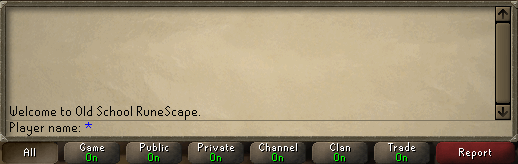
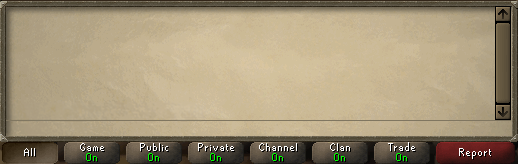
Added background to central screen + started working on typewriter effect

Changed region(s): [[0.0, 0.6402, 0.4015, 0.7317], [0.0, 0.7622, 0.1544, 0.8232], [0.1544, 0.7317, 0.1853, 0.7622]]

diff --git a/chat/central-chat-display/src/App.js b/chat/central-chat-display/src/App.js
@@ -6,6 +6,8 @@ const socket = io('http://localhost:3001');
 
 function CentralChatDisplay() {
     const [messages, setMessages] = useState([]);
+    const [messageBuffer, setMessageBuffer] = useState([]);
+    const [processingMessage, setProcessingMessage] = useState('');
     const chatBoxRef = useRef(null);  // Reference to the chat box
 
     useEffect(() => {
@@ -14,10 +16,67 @@ function CentralChatDisplay() {
         });
 
         socket.off('chat-message');
-        socket.on('chat-message', (msg) => {
-            setMessages((prevMessages) => [...prevMessages, msg]);
+        socket.on('chat-message', (newMessage) => {
+            setMessageBuffer((prevMessages) => {
+                // Check if the message with the same id exists in the array
+                const index = prevMessages.findIndex((msg) => msg.id === newMessage.id);
+                    
+                if (index !== -1) {
+                    // Update the existing message by creating a new array with the updated message
+                    const updatedMessages = [...prevMessages];
+                    updatedMessages[index] = newMessage;
+                    return updatedMessages;
+                } else {
+                    // If message doesn't exist, add it to the array
+                    return [...prevMessages, newMessage];
+                }
+            });
         });
     }, []);
+
+    // Automatically process buffer when there's a new message
+    useEffect(() => {
+        if (messageBuffer.length > 0 && !processingMessage) {
+            const [currentMessage, ...rest] = messageBuffer;
+            setProcessingMessage(String(currentMessage.message));
+            setMessageBuffer(rest);
+
+            var userNameElement = document.createElement('span');
+            userNameElement.className = 'system-text';
+            userNameElement.innerHTML = currentMessage.username + ': ';
+
+            var inputElement = document.getElementById('input-message');
+            inputElement.replaceChild(userNameElement, inputElement.firstChild);
+
+            typeWriter(0);
+
+            setProcessingMessage(null);
+
+            setMessages((prevMessages) => {
+                // Check if the message with the same id exists in the array
+                const index = prevMessages.findIndex((msg) => msg.id === currentMessage.id);
+        
+                if (index !== -1) {
+                    // Update the existing message by creating a new array with the updated message
+                    const updatedMessages = [...prevMessages];
+                    updatedMessages[index] = currentMessage;
+                    return updatedMessages;
+                } else {
+                    // If message doesn't exist, add it to the array
+                    return [...prevMessages, currentMessage];
+                }
+            });
+        }
+    }, [messageBuffer, processingMessage]);
+
+    const typeWriter = (index) => {
+        if (index < processingMessage.length) {
+            document.getElementById('input-message').innerHTML += processingMessage.charAt(index);
+            setTimeout(() => {
+                typeWriter(index + 1);
+            }, 50);
+        }
+    };
 
     useEffect(() => {
         if (chatBoxRef.current) {
@@ -30,9 +89,12 @@ function CentralChatDisplay() {
             <div class="chat-messages" id="chat-box" ref={chatBoxRef}>
                 {messages.map((msg, index) => (
                     <div key={index} class="chat-message">
-                        <span id='system-text'>{msg.username}:</span> {msg.message}
+                        <span class='system-text'>{msg.username}:</span> {msg.message}
                     </div>
                 ))}
+            </div>
+            <div class="chat-input-container">
+                <p id='input-message'><span class='system-text'>Username: </span></p>
             </div>
         </div>
     );

diff --git a/chat/central-chat-display/src/App.css b/chat/central-chat-display/src/App.css
@@ -60,11 +60,15 @@ html, body {
   margin: 0;
   font-family: 'Runescape-chat', sans-serif;
   color: #0000FF;
-  font-size: 8vh;
+  font-size: 10vh;
   /*background-color: #3E3529;*/
 }
 
-#system-text {
+p {
+  margin: 0;
+}
+
+.system-text {
   color: #000000;
 }
 
@@ -74,6 +78,15 @@ html, body {
   flex-direction: column;
   height: 100vh; /* Full viewport height */
   width: 100vw; /* Full viewport width */
+}
+
+#chat-box {
+  background-image: url("../../assets/Chat_Interface_cropped-top.png");
+  background-size: cover;
+  background-position: center;
+  background-repeat: no-repeat;
+  overflow: hidden;
+  position: relative;
 }
 
 /* Chat messages section will grow and be scrollable */
@@ -88,7 +101,14 @@ html, body {
 .chat-input-container {
   display: flex;
   padding: 10px;
-  background-color: #e0e0e0;
+  background-image: url("../../assets/Chat_Interface_cropped-bottom.png");
+  background-size: cover;
+  background-position: center;
+  background-repeat: no-repeat;
+  position: relative;
+  border-top-style: solid;
+  border-top-color: #807660;
+  border-top-width: 0.8vh;
 }
 
 .chat-message {

diff --git a/chat/smartphone-chat/src/App.js b/chat/smartphone-chat/src/App.js
@@ -116,7 +116,7 @@ function App() {
                     <div class="chat-messages" id="chat-box" ref={chatBoxRef}>
                         {messages.map((msg, index) => (
                             <div key={index} class="chat-message" ref={index === messages.length - 1 ? messageRef : null}>
-                                <span id='system-text'>{msg.username}:</span> {msg.message}
+                                <span class='system-text'>{msg.username}:</span> {msg.message}
                             </div>
                         ))}
                     </div>

diff --git a/chat/smartphone-chat/src/App.css b/chat/smartphone-chat/src/App.css
@@ -64,7 +64,7 @@ html, body {
   /*background-color: #3E3529;*/
 }
 
-#system-text {
+.system-text {
   color: #000000;
 }
 
